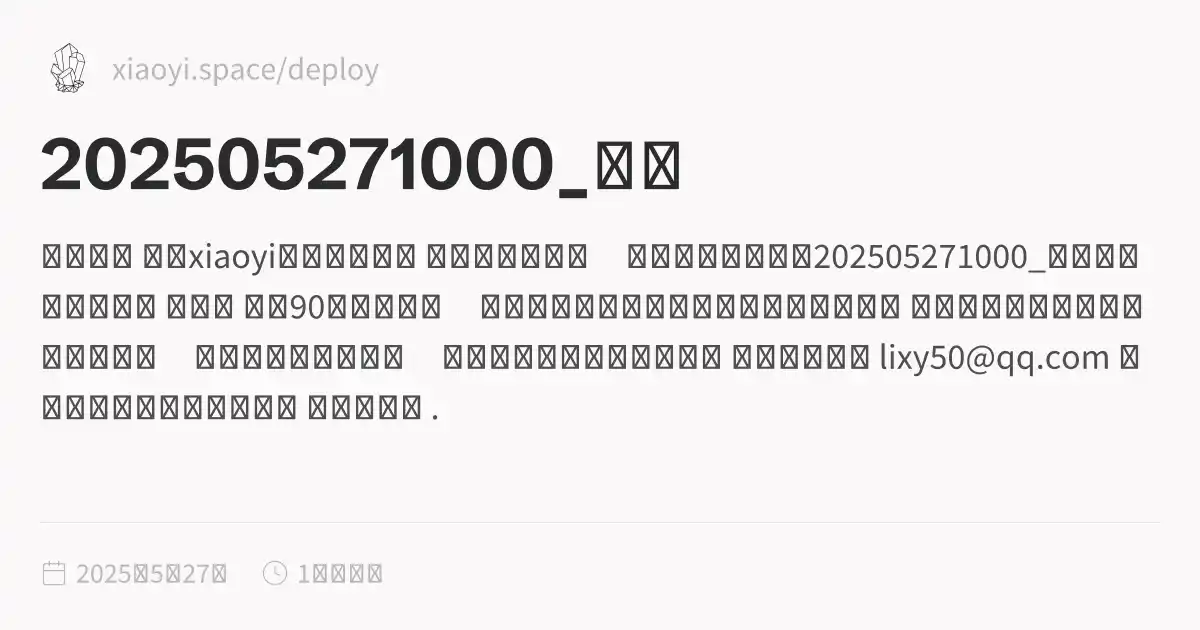
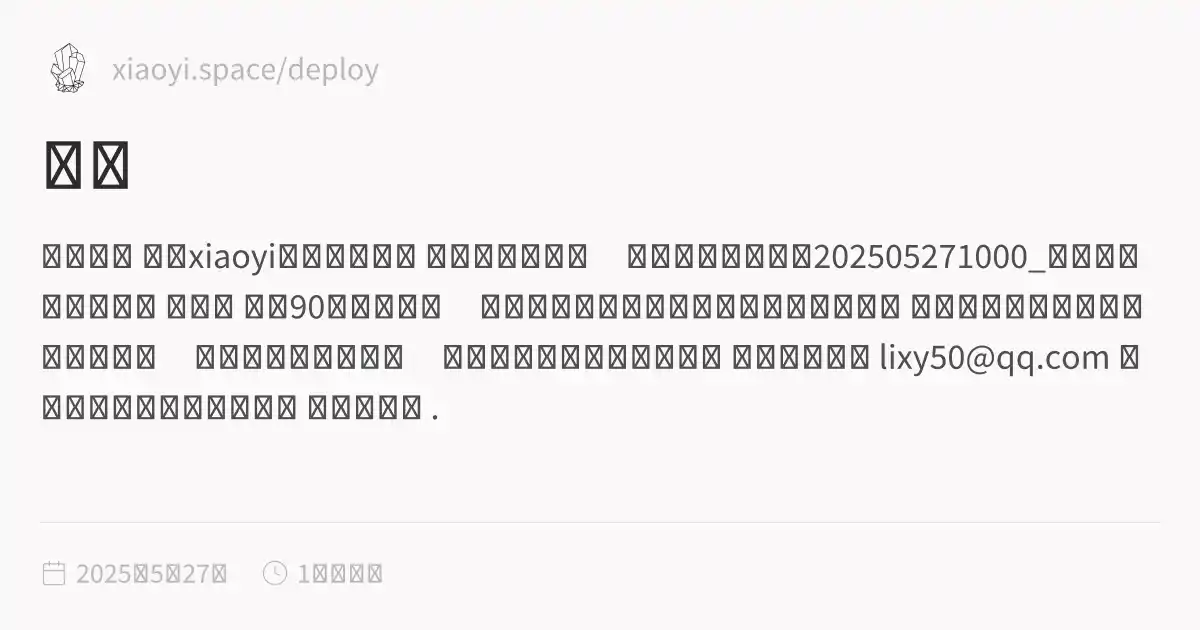
feature:update title of homepage

Changed region(s): [[0.0308, 0.2111, 0.4625, 0.3016], [0.4933, 0.2111, 0.5858, 0.3016], [0.4625, 0.3016, 0.4933, 0.3317]]

diff --git a/deploy/index.html b/deploy/index.html
@@ -1,5 +1,5 @@
 <!DOCTYPE html>
-<html lang="zh"><head><title>202505271000_首页</title><meta charset="utf-8"/><link rel="preconnect" href="https://fonts.googleapis.com"/><link rel="preconnect" href="https://fonts.gstatic.com"/><link rel="stylesheet" href="https://fonts.googleapis.com/css2?family=Schibsted Grotesk:wght@400;700&amp;family=Source Sans Pro:ital,wght@0,400;0,600;1,400;1,600&amp;family=IBM Plex Mono:wght@400;600&amp;display=swap"/><link rel="preconnect" href="https://cdnjs.cloudflare.com" crossorigin="anonymous"/><meta name="viewport" content="width=device-width, initial-scale=1.0"/><meta name="og:site_name" content="xiaoyi.space"/><meta property="og:title" content="202505271000_首页"/><meta property="og:type" content="website"/><meta name="twitter:card" content="summary_large_image"/><meta name="twitter:title" content="202505271000_首页"/><meta name="twitter:description" content="这是哪儿 这是xiaoyi的个人空间。 记录生活的点滴，分享生活的美好。202505271000_为什么搭建这个博客 我是谁 一个90后的程序员，爱好猫咪、编程、钢琴、滑雪、摩托车。 这是一个没有多少人关注的小天地，躲藏在互联网的角落，但是期待被有缘的人看到。 我的联系方式 lixy50@qq.com 很期待收到有缘人的来信。 这是我的猫 ."/><meta property="og:description" content="这是哪儿 这是xiaoyi的个人空间。 记录生活的点滴，分享生活的美好。202505271000_为什么搭建这个博客 我是谁 一个90后的程序员，爱好猫咪、编程、钢琴、滑雪、摩托车。 这是一个没有多少人关注的小天地，躲藏在互联网的角落，但是期待被有缘的人看到。 我的联系方式 lixy50@qq.com 很期待收到有缘人的来信。 这是我的猫 ."/><meta property="og:image:alt" content="这是哪儿 这是xiaoyi的个人空间。 记录生活的点滴，分享生活的美好。202505271000_为什么搭建这个博客 我是谁 一个90后的程序员，爱好猫咪、编程、钢琴、滑雪、摩托车。 这是一个没有多少人关注的小天地，躲藏在互联网的角落，但是期待被有缘的人看到。 我的联系方式 lixy50@qq.com 很期待收到有缘人的来信。 这是我的猫 ."/><meta property="twitter:domain" content="xiaoyi.space/deploy"/><meta property="og:url" content="https://xiaoyi.space/deploy/index"/><meta property="twitter:url" content="https://xiaoyi.space/deploy/index"/><link rel="icon" href="./static/icon.png"/><meta name="description" content="这是哪儿 这是xiaoyi的个人空间。 记录生活的点滴，分享生活的美好。202505271000_为什么搭建这个博客 我是谁 一个90后的程序员，爱好猫咪、编程、钢琴、滑雪、摩托车。 这是一个没有多少人关注的小天地，躲藏在互联网的角落，但是期待被有缘的人看到。 我的联系方式 lixy50@qq.com 很期待收到有缘人的来信。 这是我的猫 ."/><meta name="generator" content="Quartz"/><link href="./index.css" rel="stylesheet" type="text/css" spa-preserve/><style>.expand-button {
+<html lang="zh"><head><title>首页</title><meta charset="utf-8"/><link rel="preconnect" href="https://fonts.googleapis.com"/><link rel="preconnect" href="https://fonts.gstatic.com"/><link rel="stylesheet" href="https://fonts.googleapis.com/css2?family=Schibsted Grotesk:wght@400;700&amp;family=Source Sans Pro:ital,wght@0,400;0,600;1,400;1,600&amp;family=IBM Plex Mono:wght@400;600&amp;display=swap"/><link rel="preconnect" href="https://cdnjs.cloudflare.com" crossorigin="anonymous"/><meta name="viewport" content="width=device-width, initial-scale=1.0"/><meta name="og:site_name" content="xiaoyi.space"/><meta property="og:title" content="首页"/><meta property="og:type" content="website"/><meta name="twitter:card" content="summary_large_image"/><meta name="twitter:title" content="首页"/><meta name="twitter:description" content="这是哪儿 这是xiaoyi的个人空间。 记录生活的点滴，分享生活的美好。202505271000_为什么搭建这个博客 我是谁 一个90后的程序员，爱好猫咪、编程、钢琴、滑雪、摩托车。 这是一个没有多少人关注的小天地，躲藏在互联网的角落，但是期待被有缘的人看到。 我的联系方式 lixy50@qq.com 很期待收到有缘人的来信。 这是我的猫 ."/><meta property="og:description" content="这是哪儿 这是xiaoyi的个人空间。 记录生活的点滴，分享生活的美好。202505271000_为什么搭建这个博客 我是谁 一个90后的程序员，爱好猫咪、编程、钢琴、滑雪、摩托车。 这是一个没有多少人关注的小天地，躲藏在互联网的角落，但是期待被有缘的人看到。 我的联系方式 lixy50@qq.com 很期待收到有缘人的来信。 这是我的猫 ."/><meta property="og:image:alt" content="这是哪儿 这是xiaoyi的个人空间。 记录生活的点滴，分享生活的美好。202505271000_为什么搭建这个博客 我是谁 一个90后的程序员，爱好猫咪、编程、钢琴、滑雪、摩托车。 这是一个没有多少人关注的小天地，躲藏在互联网的角落，但是期待被有缘的人看到。 我的联系方式 lixy50@qq.com 很期待收到有缘人的来信。 这是我的猫 ."/><meta property="twitter:domain" content="xiaoyi.space/deploy"/><meta property="og:url" content="https://xiaoyi.space/deploy/index"/><meta property="twitter:url" content="https://xiaoyi.space/deploy/index"/><link rel="icon" href="./static/icon.png"/><meta name="description" content="这是哪儿 这是xiaoyi的个人空间。 记录生活的点滴，分享生活的美好。202505271000_为什么搭建这个博客 我是谁 一个90后的程序员，爱好猫咪、编程、钢琴、滑雪、摩托车。 这是一个没有多少人关注的小天地，躲藏在互联网的角落，但是期待被有缘的人看到。 我的联系方式 lixy50@qq.com 很期待收到有缘人的来信。 这是我的猫 ."/><meta name="generator" content="Quartz"/><link href="./index.css" rel="stylesheet" type="text/css" spa-preserve/><style>.expand-button {
   position: absolute;
   display: flex;
   float: right;
@@ -116,7 +116,7 @@ pre:hover > .expand-button {
   padding: 0 12px;
   font-size: 14px;
 }
[2 lines of base64/hex data omitted]
 <p>这是xiaoyi的个人空间。
 记录生活的点滴，分享生活的美好。<a href="./202505271000_为什么搭建这个博客" class="internal alias" data-slug="202505271000_为什么搭建这个博客">202505271000_为什么搭建这个博客</a></p>
 <h1 id="我是谁">我是谁<a role="anchor" aria-hidden="true" tabindex="-1" data-no-popover="true" href="#我是谁" class="internal"><svg width="18" height="18" viewBox="0 0 24 24" fill="none" stroke="currentColor" stroke-width="2" stroke-linecap="round" stroke-linejoin="round"><path d="M10 13a5 5 0 0 0 7.54.54l3-3a5 5 0 0 0-7.07-7.07l-1.72 1.71"></path><path d="M14 11a5 5 0 0 0-7.54-.54l-3 3a5 5 0 0 0 7.07 7.07l1.71-1.71"></path></svg></a></h1>

diff --git a/deploy/202505271000_为什么搭建这个博客.html b/deploy/202505271000_为什么搭建这个博客.html
@@ -127,6 +127,6 @@ pre:hover > .expand-button {
                 C46.042,11.405,47.451,12,49,12c3.309,0,6-2.691,6-6S52.309,0,49,0z M11,9c0-1.103,0.897-2,2-2s2,0.897,2,2s-0.897,2-2,2
                 S11,10.103,11,9z M6,51c-2.206,0-4-1.794-4-4s1.794-4,4-4s4,1.794,4,4S8.206,51,6,51z M33,49c0,2.206-1.794,4-4,4s-4-1.794-4-4
                 s1.794-4,4-4S33,46.794,33,49z M29,31c-3.309,0-6-2.691-6-6s2.691-6,6-6s6,2.691,6,6S32.309,31,29,31z M47,41c0,1.103-0.897,2-2,2
-                s-2-0.897-2-2s0.897-2,2-2S47,39.897,47,41z M49,10c-2.206,0-4-1.794-4-4s1.794-4,4-4s4,1.794,4,4S51.206,10,49,10z"></path></svg></button></div><div class="global-graph-outer"><div class="global-graph-container" data-cfg="{&quot;drag&quot;:true,&quot;zoom&quot;:true,&quot;depth&quot;:-1,&quot;scale&quot;:0.9,&quot;repelForce&quot;:0.5,&quot;centerForce&quot;:0.2,&quot;linkDistance&quot;:30,&quot;fontSize&quot;:0.6,&quot;opacityScale&quot;:1,&quot;showTags&quot;:true,&quot;removeTags&quot;:[],&quot;focusOnHover&quot;:true,&quot;enableRadial&quot;:true}"></div></div></div><div class="backlinks"><h3>反向链接</h3><ul id="list-2" class="overflow"><li><a href="./" class="internal">202505271000_首页</a></li><li class="overflow-end"></li></ul></div></div><footer class><p>Created with <a href="https://quartz.jzhao.xyz/">Quartz v4.5.1</a> © 2025</p><ul><li><a href="https://github.com/jackyzha0/quartz">GitHub</a></li><li><a href="https://discord.gg/cRFFHYye7t">Discord Community</a></li></ul></footer></div></div></body><script type="application/javascript">function n(){let t=this.parentElement;t.classList.toggle("is-collapsed");let e=t.getElementsByClassName("callout-content")[0];if(!e)return;let l=t.classList.contains("is-collapsed");e.style.gridTemplateRows=l?"0fr":"1fr"}function c(){let t=document.getElementsByClassName("callout is-collapsible");for(let e of t){let l=e.getElementsByClassName("callout-title")[0],s=e.getElementsByClassName("callout-content")[0];if(!l||!s)continue;l.addEventListener("click",n),window.addCleanup(()=>l.removeEventListener("click",n));let o=e.classList.contains("is-collapsed");s.style.gridTemplateRows=o?"0fr":"1fr"}}document.addEventListener("nav",c);
+                s-2-0.897-2-2s0.897-2,2-2S47,39.897,47,41z M49,10c-2.206,0-4-1.794-4-4s1.794-4,4-4s4,1.794,4,4S51.206,10,49,10z"></path></svg></button></div><div class="global-graph-outer"><div class="global-graph-container" data-cfg="{&quot;drag&quot;:true,&quot;zoom&quot;:true,&quot;depth&quot;:-1,&quot;scale&quot;:0.9,&quot;repelForce&quot;:0.5,&quot;centerForce&quot;:0.2,&quot;linkDistance&quot;:30,&quot;fontSize&quot;:0.6,&quot;opacityScale&quot;:1,&quot;showTags&quot;:true,&quot;removeTags&quot;:[],&quot;focusOnHover&quot;:true,&quot;enableRadial&quot;:true}"></div></div></div><div class="backlinks"><h3>反向链接</h3><ul id="list-2" class="overflow"><li><a href="./" class="internal">首页</a></li><li class="overflow-end"></li></ul></div></div><footer class><p>Created with <a href="https://quartz.jzhao.xyz/">Quartz v4.5.1</a> © 2025</p><ul><li><a href="https://github.com/jackyzha0/quartz">GitHub</a></li><li><a href="https://discord.gg/cRFFHYye7t">Discord Community</a></li></ul></footer></div></div></body><script type="application/javascript">function n(){let t=this.parentElement;t.classList.toggle("is-collapsed");let e=t.getElementsByClassName("callout-content")[0];if(!e)return;let l=t.classList.contains("is-collapsed");e.style.gridTemplateRows=l?"0fr":"1fr"}function c(){let t=document.getElementsByClassName("callout is-collapsible");for(let e of t){let l=e.getElementsByClassName("callout-title")[0],s=e.getElementsByClassName("callout-content")[0];if(!l||!s)continue;l.addEventListener("click",n),window.addCleanup(()=>l.removeEventListener("click",n));let o=e.classList.contains("is-collapsed");s.style.gridTemplateRows=o?"0fr":"1fr"}}document.addEventListener("nav",c);
 </script><script type="module">function f(i,e){if(!i)return;function r(o){o.target===this&&(o.preventDefault(),o.stopPropagation(),e())}function t(o){o.key.startsWith("Esc")&&(o.preventDefault(),e())}i?.addEventListener("click",r),window.addCleanup(()=>i?.removeEventListener("click",r)),document.addEventListener("keydown",t),window.addCleanup(()=>document.removeEventListener("keydown",t))}function y(i){for(;i.firstChild;)i.removeChild(i.firstChild)}var h=class{constructor(e,r){this.container=e;this.content=r;this.setupEventListeners(),this.setupNavigationControls(),this.resetTransform()}isDragging=!1;startPan={x:0,y:0};currentPan={x:0,y:0};scale=1;MIN_SCALE=.5;MAX_SCALE=3;cleanups=[];setupEventListeners(){let e=this.onMouseDown.bind(this),r=this.onMouseMove.bind(this),t=this.onMouseUp.bind(this),o=this.resetTransform.bind(this);this.container.addEventListener("mousedown",e),document.addEventListener("mousemove",r),document.addEventListener("mouseup",t),window.addEventListener("resize",o),this.cleanups.push(()=>this.container.removeEventListener("mousedown",e),()=>document.removeEventListener("mousemove",r),()=>document.removeEventListener("mouseup",t),()=>window.removeEventListener("resize",o))}cleanup(){for(let e of this.cleanups)e()}setupNavigationControls(){let e=document.createElement("div");e.className="mermaid-controls";let r=this.createButton("+",()=>this.zoom(.1)),t=this.createButton("-",()=>this.zoom(-.1)),o=this.createButton("Reset",()=>this.resetTransform());e.appendChild(t),e.appendChild(o),e.appendChild(r),this.container.appendChild(e)}createButton(e,r){let t=document.createElement("button");return t.textContent=e,t.className="mermaid-control-button",t.addEventListener("click",r),window.addCleanup(()=>t.removeEventListener("click",r)),t}onMouseDown(e){e.button===0&&(this.isDragging=!0,this.startPan={x:e.clientX-this.currentPan.x,y:e.clientY-this.currentPan.y},this.container.style.cursor="grabbing")}onMouseMove(e){this.isDragging&&(e.preventDefault(),this.currentPan={x:e.clientX-this.startPan.x,y:e.clientY-this.startPan.y},this.updateTransform())}onMouseUp(){this.isDragging=!1,this.container.style.cursor="grab"}zoom(e){let r=Math.min(Math.max(this.scale+e,this.MIN_SCALE),this.MAX_SCALE),t=this.content.getBoundingClientRect(),o=t.width/2,n=t.height/2,c=r-this.scale;this.currentPan.x-=o*c,this.currentPan.y-=n*c,this.scale=r,this.updateTransform()}updateTransform(){this.content.style.transform=`translate(${this.currentPan.x}px, ${this.currentPan.y}px) scale(${this.scale})`}resetTransform(){this.scale=1;let e=this.content.querySelector("svg");this.currentPan={x:e.getBoundingClientRect().width/2,y:e.getBoundingClientRect().height/2},this.updateTransform()}},C=["--secondary","--tertiary","--gray","--light","--lightgray","--highlight","--dark","--darkgray","--codeFont"],E;document.addEventListener("nav",async()=>{let e=document.querySelector(".center").querySelectorAll("code.mermaid");if(e.length===0)return;E||=await import("https://cdnjs.cloudflare.com/ajax/libs/mermaid/11.4.0/mermaid.esm.min.mjs");let r=E.default,t=new WeakMap;for(let n of e)t.set(n,n.innerText);async function o(){for(let s of e){s.removeAttribute("data-processed");let a=t.get(s);a&&(s.innerHTML=a)}let n=C.reduce((s,a)=>(s[a]=window.getComputedStyle(document.documentElement).getPropertyValue(a),s),{}),c=document.documentElement.getAttribute("saved-theme")==="dark";r.initialize({startOnLoad:!1,securityLevel:"loose",theme:c?"dark":"base",themeVariables:{fontFamily:n["--codeFont"],primaryColor:n["--light"],primaryTextColor:n["--darkgray"],primaryBorderColor:n["--tertiary"],lineColor:n["--darkgray"],secondaryColor:n["--secondary"],tertiaryColor:n["--tertiary"],clusterBkg:n["--light"],edgeLabelBackground:n["--highlight"]}}),await r.run({nodes:e})}await o(),document.addEventListener("themechange",o),window.addCleanup(()=>document.removeEventListener("themechange",o));for(let n=0;n<e.length;n++){let v=function(){let g=l.querySelector("#mermaid-space"),m=l.querySelector(".mermaid-content");if(!m)return;y(m);let w=c.querySelector("svg").cloneNode(!0);m.appendChild(w),l.classList.add("active"),g.style.cursor="grab",u=new h(g,m)},M=function(){l.classList.remove("active"),u?.cleanup(),u=null},c=e[n],s=c.parentElement,a=s.querySelector(".clipboard-button"),d=s.querySelector(".expand-button"),p=window.getComputedStyle(a),L=a.offsetWidth+parseFloat(p.marginLeft||"0")+parseFloat(p.marginRight||"0");d.style.right=`calc(${L}px + 0.3rem)`,s.prepend(d);let l=s.querySelector("#mermaid-container");if(!l)return;let u=null;d.addEventListener("click",v),f(l,M),window.addCleanup(()=>{u?.cleanup(),d.removeEventListener("click",v)})}});
 </script><script src="https://cdn.jsdelivr.net/npm/katex@0.16.11/dist/contrib/copy-tex.min.js" type="application/javascript"></script><script src="./postscript.js" type="module"></script></html>
